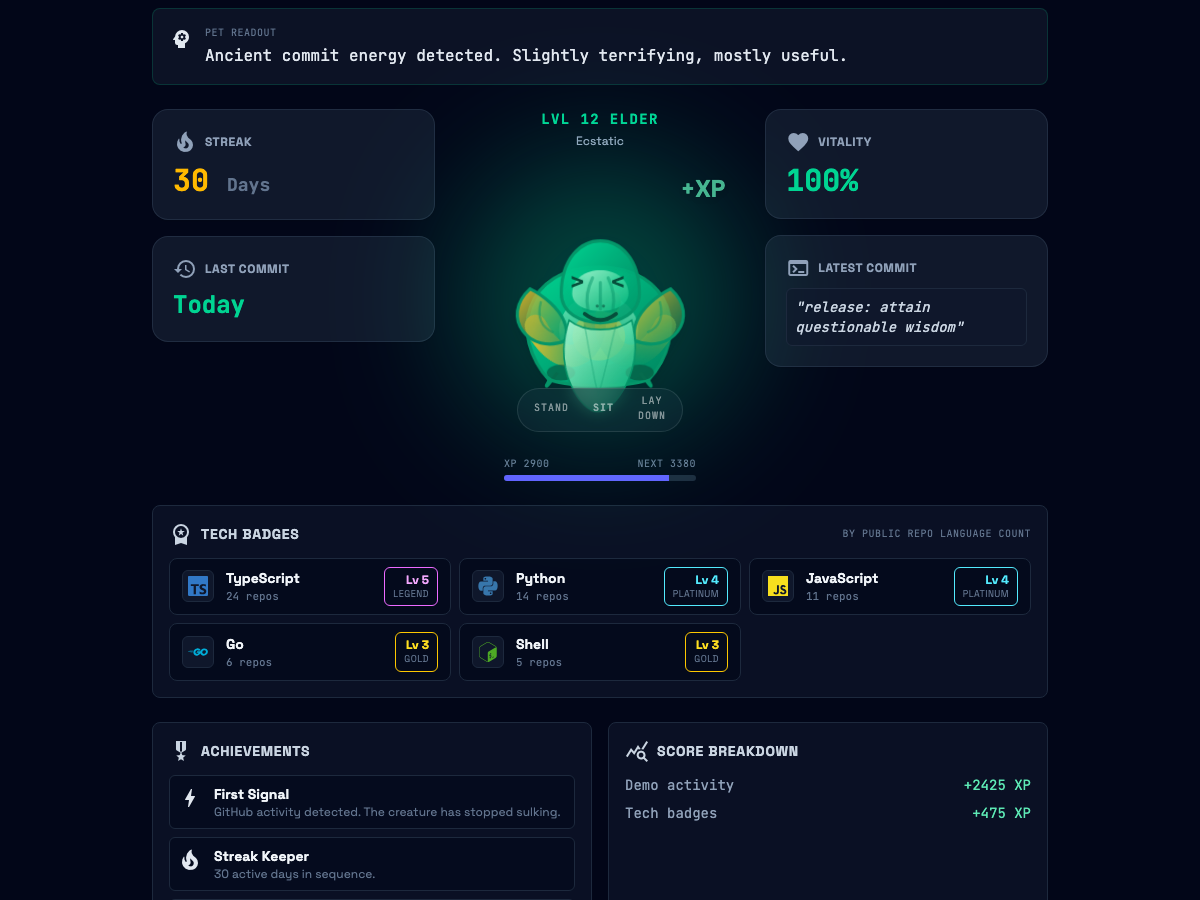
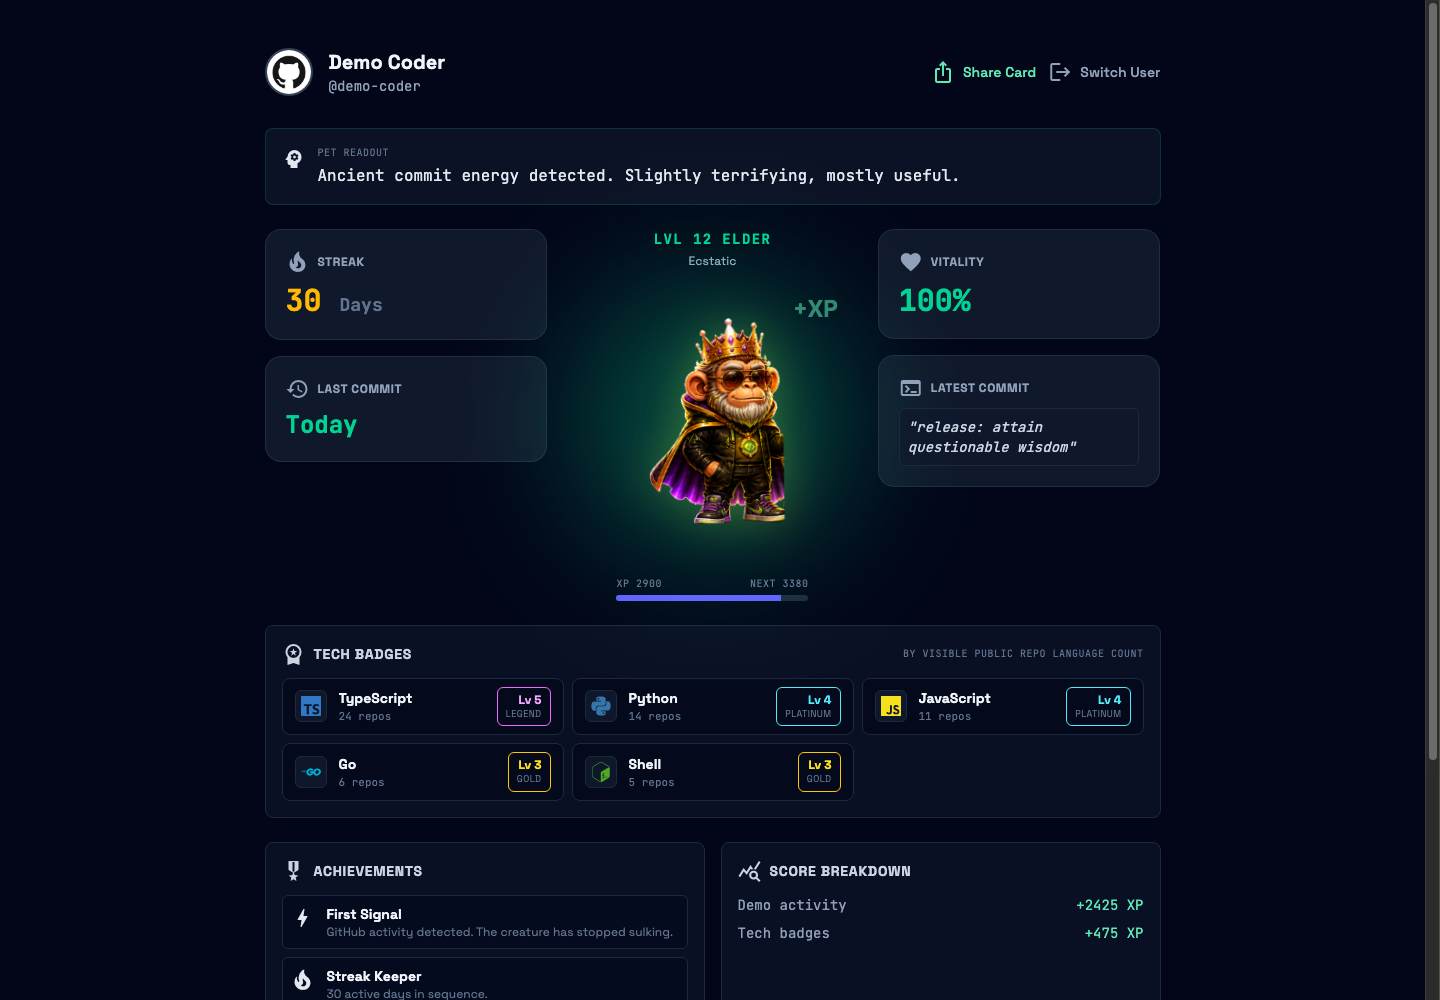
feat: add sprite pets and stack showcase | Model: claude-opus-4 | Mode: ultrathink | 🤖 J.A.R.V.I.S.

diff --git a/src/app/landing/landing.component.ts b/src/app/landing/landing.component.ts
@@ -182,7 +182,7 @@ import { PetState } from '../models';
                 [class.bg-lime-400/10]="demoState.stage === 'Elder'"
               >
                 <div class="h-28 flex items-center justify-center overflow-hidden rounded-md bg-slate-950/40">
-                  <div class="w-32 scale-75 group-hover:scale-[0.8] transition-transform">
+                  <div class="w-40 transition-transform group-hover:scale-105">
                     <app-pet [state]="demoState" [interactive]="false"></app-pet>
                   </div>
                 </div>
@@ -194,6 +194,41 @@ import { PetState } from '../models';
                   <mat-icon class="text-[18px] w-[18px] h-[18px] text-slate-500 group-hover:text-lime-300">play_arrow</mat-icon>
                 </div>
               </button>
+            }
+          </div>
+        </section>
+
+        <section class="w-full animate-fade-in-up pb-14" style="animation-delay: 300ms;">
+          <div class="mb-5 flex items-end justify-between gap-4 text-left">
+            <div>
+              <h2 class="text-lg font-bold text-slate-100 md:text-xl">Built with</h2>
+              <p class="max-w-3xl text-sm font-mono text-slate-500">The visible stack behind the demo, deployment, read-only auth, scoring engine, and project presentation.</p>
+            </div>
+            <mat-icon class="hidden text-cyan-400 sm:block">hub</mat-icon>
+          </div>
+
+          <div class="grid grid-cols-1 gap-3 sm:grid-cols-2 lg:grid-cols-4">
+            @for (item of stackItems; track item.name) {
+              <a
+                [href]="item.href"
+                target="_blank"
+                rel="noreferrer"
+                class="group flex min-w-0 items-center gap-3 rounded-lg border border-slate-800 bg-slate-900/65 p-3 text-left shadow-lg transition-all hover:border-lime-400/60 hover:bg-slate-800/80"
+              >
+                <span class="flex h-11 w-11 shrink-0 items-center justify-center rounded-lg border border-slate-700/70 bg-slate-950/70">
+                  <img
+                    [src]="item.logo"
+                    [alt]="item.name + ' logo'"
+                    class="h-6 w-6 object-contain"
+                    loading="lazy"
+                  />
+                </span>
+                <span class="min-w-0">
+                  <span class="block truncate text-sm font-bold text-slate-100">{{item.name}}</span>
+                  <span class="block truncate text-xs font-mono text-slate-500">{{item.role}}</span>
+                </span>
+                <mat-icon class="ml-auto hidden text-[17px] text-slate-600 transition-colors group-hover:text-lime-300 min-[420px]:block">open_in_new</mat-icon>
+              </a>
             }
           </div>
         </section>
@@ -224,6 +259,80 @@ export class LandingComponent implements OnInit, OnDestroy {
   username = signal('');
   authApiBaseUrl = signal<string | null | undefined>(undefined);
   enhancedAuthAvailable = signal<boolean | undefined>(undefined);
+  readonly stackItems = [
+    {
+      name: 'Angular',
+      role: 'Standalone UI + SSR-ready build',
+      logo: 'https://cdn.simpleicons.org/angular/DD0031',
+      href: 'https://angular.dev',
+    },
+    {
+      name: 'TypeScript',
+      role: 'Typed scoring and app logic',
+      logo: 'https://cdn.simpleicons.org/typescript/3178C6',
+      href: 'https://www.typescriptlang.org',
+    },
+    {
+      name: 'Tailwind CSS',
+      role: 'Responsive neon interface',
+      logo: 'https://cdn.simpleicons.org/tailwindcss/06B6D4',
+      href: 'https://tailwindcss.com',
+    },
+    {
+      name: 'Angular Material',
+      role: 'Icons and interface primitives',
+      logo: 'https://cdn.simpleicons.org/materialdesign/757575',
+      href: 'https://material.angular.dev',
+    },
+    {
+      name: 'GitHub OAuth',
+      role: 'Read-only contribution login',
+      logo: 'https://cdn.simpleicons.org/github/FFFFFF',
+      href: 'https://docs.github.com/apps/oauth-apps',
+    },
+    {
+      name: 'GitHub Apps',
+      role: 'Selected repo read mode',
+      logo: 'https://cdn.simpleicons.org/github/FFFFFF',
+      href: 'https://docs.github.com/apps',
+    },
+    {
+      name: 'Cloudflare Pages',
+      role: 'Primary app hosting',
+      logo: 'https://cdn.simpleicons.org/cloudflare/F38020',
+      href: 'https://pages.cloudflare.com',
+    },
+    {
+      name: 'Pages Functions',
+      role: 'Server-side token exchange',
+      logo: 'https://cdn.simpleicons.org/cloudflare/F38020',
+      href: 'https://developers.cloudflare.com/pages/functions',
+    },
+    {
+      name: 'GitHub Pages',
+      role: 'Static fallback demo',
+      logo: 'https://cdn.simpleicons.org/githubpages/FFFFFF',
+      href: 'https://pages.github.com',
+    },
+    {
+      name: 'GitHub Actions',
+      role: 'CI and Pages deploy',
+      logo: 'https://cdn.simpleicons.org/githubactions/2088FF',
+      href: 'https://github.com/features/actions',
+    },
+    {
+      name: 'Simple Icons',
+      role: 'Official-style tech logos',
+      logo: 'https://cdn.simpleicons.org/simpleicons/FFFFFF',
+      href: 'https://simpleicons.org',
+    },
+    {
+      name: 'npm',
+      role: 'Package and script workflow',
+      logo: 'https://cdn.simpleicons.org/npm/CB3837',
+      href: 'https://www.npmjs.com',
+    },
+  ];
   @Input() isLoading = false;
   @Input() errorMsg = '';
   @Input({ required: true }) demoStates: PetState[] = [];

diff --git a/src/app/pet/pet.component.ts b/src/app/pet/pet.component.ts
@@ -19,7 +19,7 @@ import { animate } from 'motion';
       ></div>
 
       <!-- Main Pet SVG Container -->
-      <div #petContainer class="relative z-10 w-full h-full p-8 transition-transform duration-1000 ease-in-out">
+      <div #petContainer class="relative z-10 w-full h-full p-3 transition-transform duration-1000 ease-in-out sm:p-5">
         
         <!-- DEAD STATE -->
         @if (state.mood === 'Dead') {
@@ -30,6 +30,18 @@ import { animate } from 'motion';
             <text x="50" y="55" font-size="12" font-family="monospace" text-anchor="middle" fill="white">R.I.P.</text>
             <text x="50" y="70" font-size="6" font-family="monospace" text-anchor="middle" fill="white">0 commits</text>
           </svg>
+        } @else if (useSpriteArt) {
+          <img
+            [src]="spriteUrl"
+            [alt]="state.stage + ' VibeGotchi sprite'"
+            class="pet-sprite h-full w-full object-contain drop-shadow-2xl"
+            [class.pet-sprite-ecstatic]="state.mood === 'Ecstatic'"
+            [class.pet-sprite-happy]="state.mood === 'Happy'"
+            [class.pet-sprite-neutral]="state.mood === 'Neutral'"
+            [class.pet-sprite-sad]="state.mood === 'Sad'"
+            [class.pet-sprite-sit]="currentPosture === 'Sit'"
+            [class.pet-sprite-lay]="currentPosture === 'LayDown'"
+          />
         } @else {
           
           <!-- LIVING STATES -->
@@ -356,7 +368,7 @@ import { animate } from 'motion';
       }
       
       <!-- Posture Controls -->
-      @if (interactive && state.stage !== 'Egg' && state.mood !== 'Dead') {
+      @if (interactive && !useSpriteArt && state.stage !== 'Egg' && state.mood !== 'Dead') {
         <div class="absolute bottom-2 left-1/2 -translate-x-1/2 flex gap-2 z-20 bg-slate-900/50 backdrop-blur pb-1 px-2 rounded-full border border-white/10">
           <button (click)="setPosture('Stand')" class="text-[10px] uppercase tracking-widest font-mono text-white/50 hover:text-white px-2 py-1 transition-colors" [class.text-emerald-400]="currentPosture === 'Stand'" [class.font-bold]="currentPosture === 'Stand'">Stand</button>
           <button (click)="setPosture('Sit')" class="text-[10px] uppercase tracking-widest font-mono text-white/50 hover:text-white px-2 py-1 transition-colors" [class.text-emerald-400]="currentPosture === 'Sit'" [class.font-bold]="currentPosture === 'Sit'">Sit</button>
@@ -368,6 +380,43 @@ import { animate } from 'motion';
   styles: [`
     /* Universal */
     .glow { filter: drop-shadow(0 0 3px currentColor); }
+    .pet-sprite {
+      animation: sprite-idle 3.8s ease-in-out infinite alternate;
+      filter: saturate(1.08) drop-shadow(0 0 20px rgba(163, 230, 53, 0.18));
+      transform-origin: 50% 82%;
+    }
+    .pet-sprite-ecstatic {
+      animation: sprite-hop 0.7s ease-in-out infinite alternate;
+      filter: saturate(1.22) drop-shadow(0 0 24px rgba(163, 230, 53, 0.34));
+    }
+    .pet-sprite-happy {
+      animation-duration: 2.5s;
+    }
+    .pet-sprite-neutral {
+      filter: saturate(1.02) drop-shadow(0 0 16px rgba(34, 211, 238, 0.14));
+    }
+    .pet-sprite-sad {
+      animation: sprite-sad 3.2s ease-in-out infinite alternate;
+      filter: saturate(0.72) drop-shadow(0 0 14px rgba(129, 140, 248, 0.16));
+    }
+    .pet-sprite-sit {
+      transform: translateY(5%) scale(0.96);
+    }
+    .pet-sprite-lay {
+      transform: translateY(12%) rotate(-8deg) scale(0.9);
+    }
+    @keyframes sprite-idle {
+      0% { transform: translateY(0) rotate(-0.8deg) scale(1); }
+      100% { transform: translateY(-3%) rotate(0.8deg) scale(1.015); }
+    }
+    @keyframes sprite-hop {
+      0% { transform: translateY(0) rotate(-1deg) scale(1); }
+      100% { transform: translateY(-7%) rotate(1deg) scale(1.035); }
+    }
+    @keyframes sprite-sad {
+      0% { transform: translateY(4%) rotate(-1deg) scale(0.96); }
+      100% { transform: translateY(6%) rotate(1deg) scale(0.94); }
+    }
     
     @keyframes blink {
       0%, 96%, 98% { transform: scaleY(1); }
@@ -651,8 +700,13 @@ export class PetComponent implements AfterViewInit, OnChanges {
   @Input({ required: true }) state!: PetState;
   @Input() interactive = true;
   @ViewChild('petContainer') petContainer!: ElementRef;
+  readonly useSpriteArt = true;
 
   currentPosture: PetState['posture'] = 'Stand';
+
+  get spriteUrl() {
+    return `assets/pets/vibegotchi-${this.state.stage.toLowerCase()}.png`;
+  }
 
   ngAfterViewInit() {
     this.animateIdle();

diff --git a/README.md b/README.md
@@ -13,6 +13,16 @@
 
 VibeGotchi turns GitHub activity into XP, health, mood, streaks, achievement badges, tech badges, and evolution stages. It is built to be simple enough to understand in a minute, but polished enough for a public product demo.
 
+## Built With
+
+| Layer | Technologies |
+| --- | --- |
+| App | [Angular](https://angular.dev), [TypeScript](https://www.typescriptlang.org), [Angular Material](https://material.angular.dev), [Tailwind CSS](https://tailwindcss.com) |
+| Auth | [GitHub OAuth](https://docs.github.com/apps/oauth-apps), [GitHub Apps](https://docs.github.com/apps) selected-repo read mode |
+| Hosting | [Cloudflare Pages](https://pages.cloudflare.com), [Cloudflare Pages Functions](https://developers.cloudflare.com/pages/functions), [GitHub Pages](https://pages.github.com) |
+| Automation | [GitHub Actions](https://github.com/features/actions), npm scripts, Angular CLI |
+| Visuals | AI-generated transparent pet sprites, [Simple Icons](https://simpleicons.org) technology logos, GitHub-style share card |
+
 ## Judge This Fast
 
 1. Open https://vibegotchi.pages.dev.